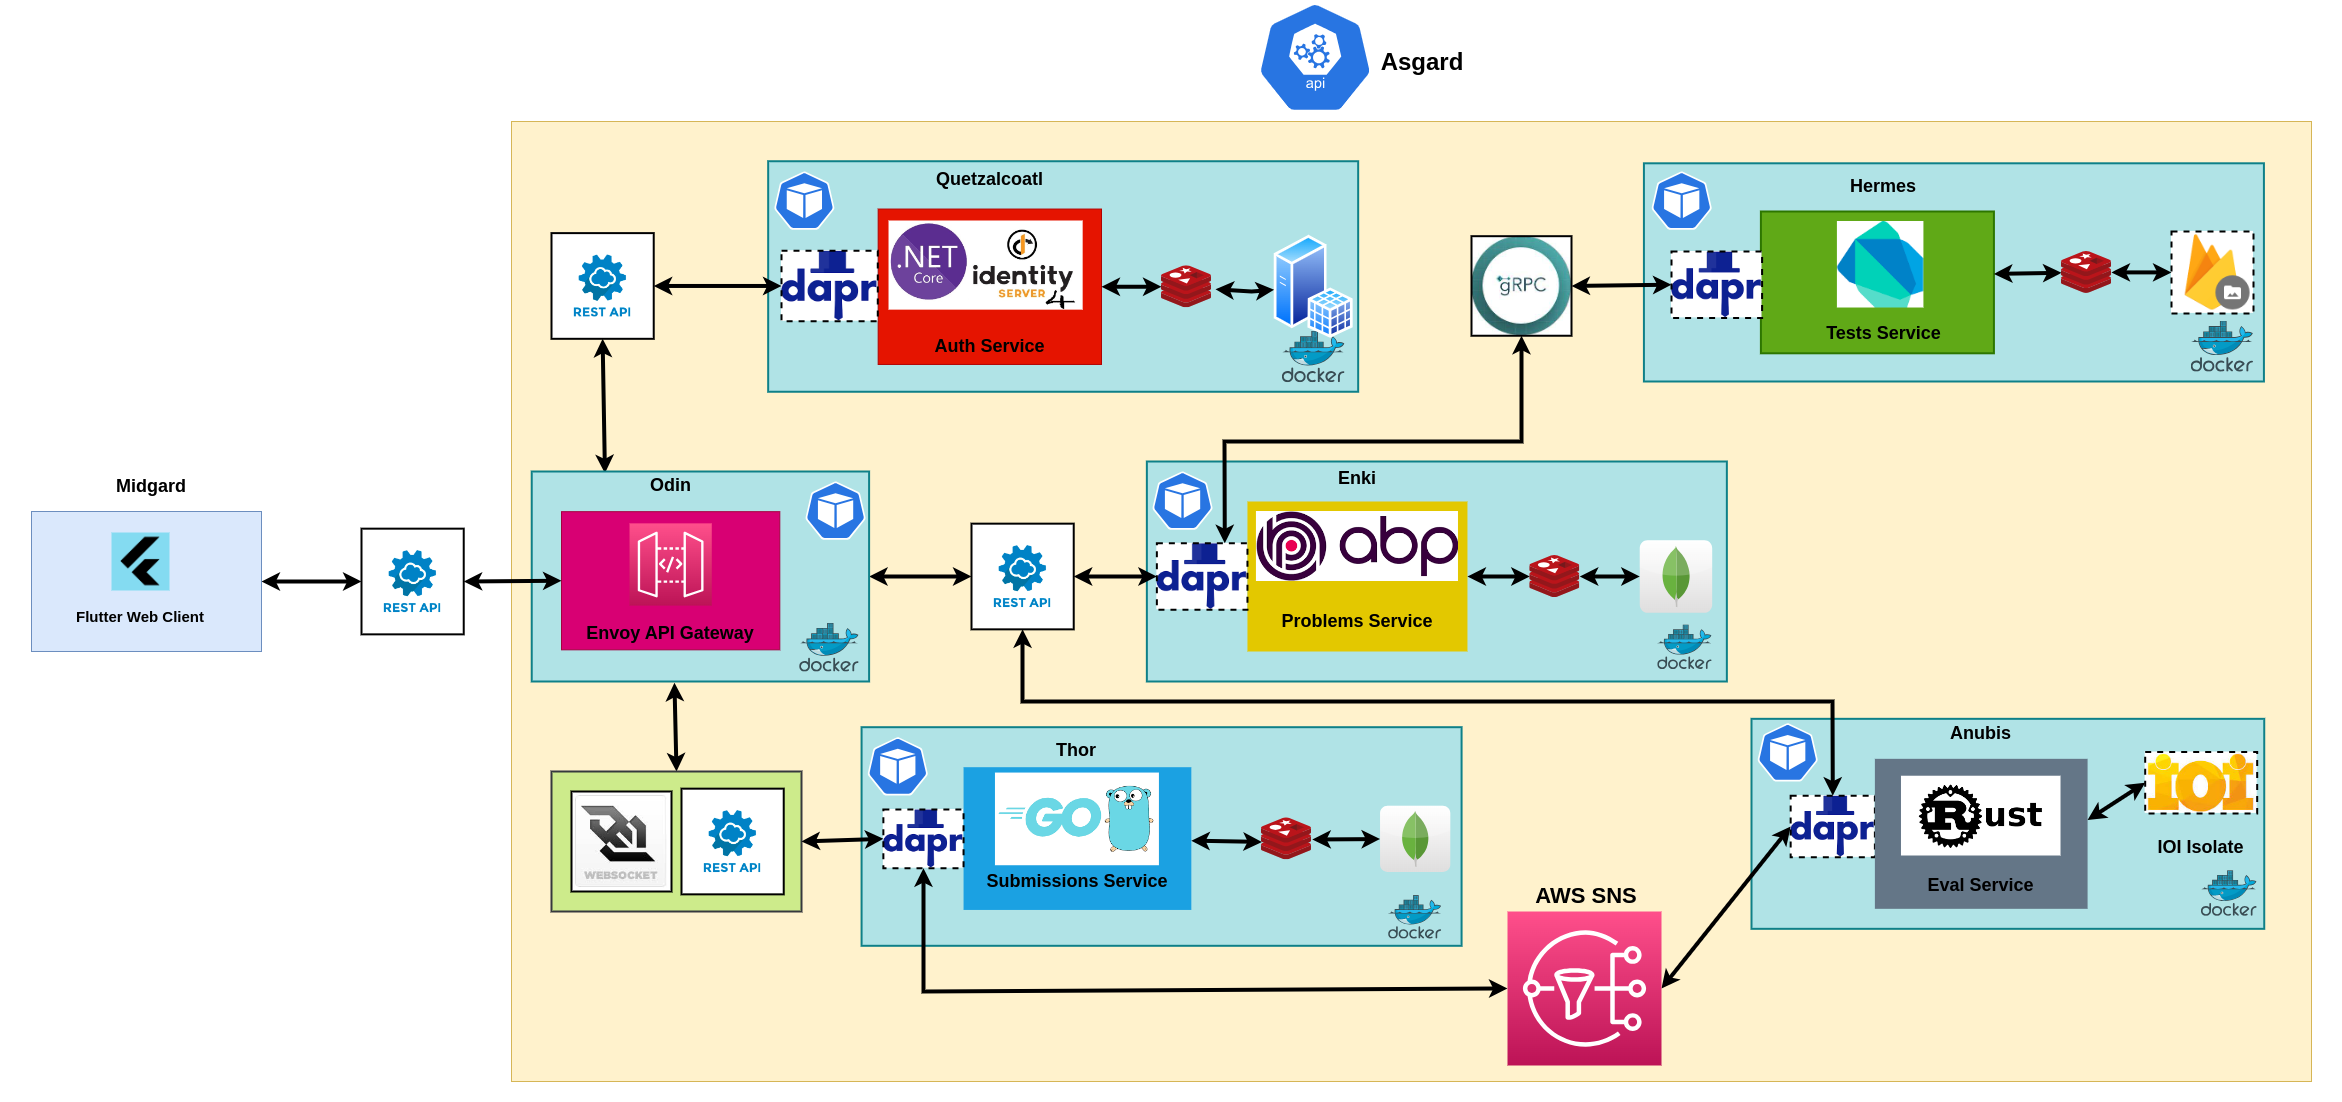
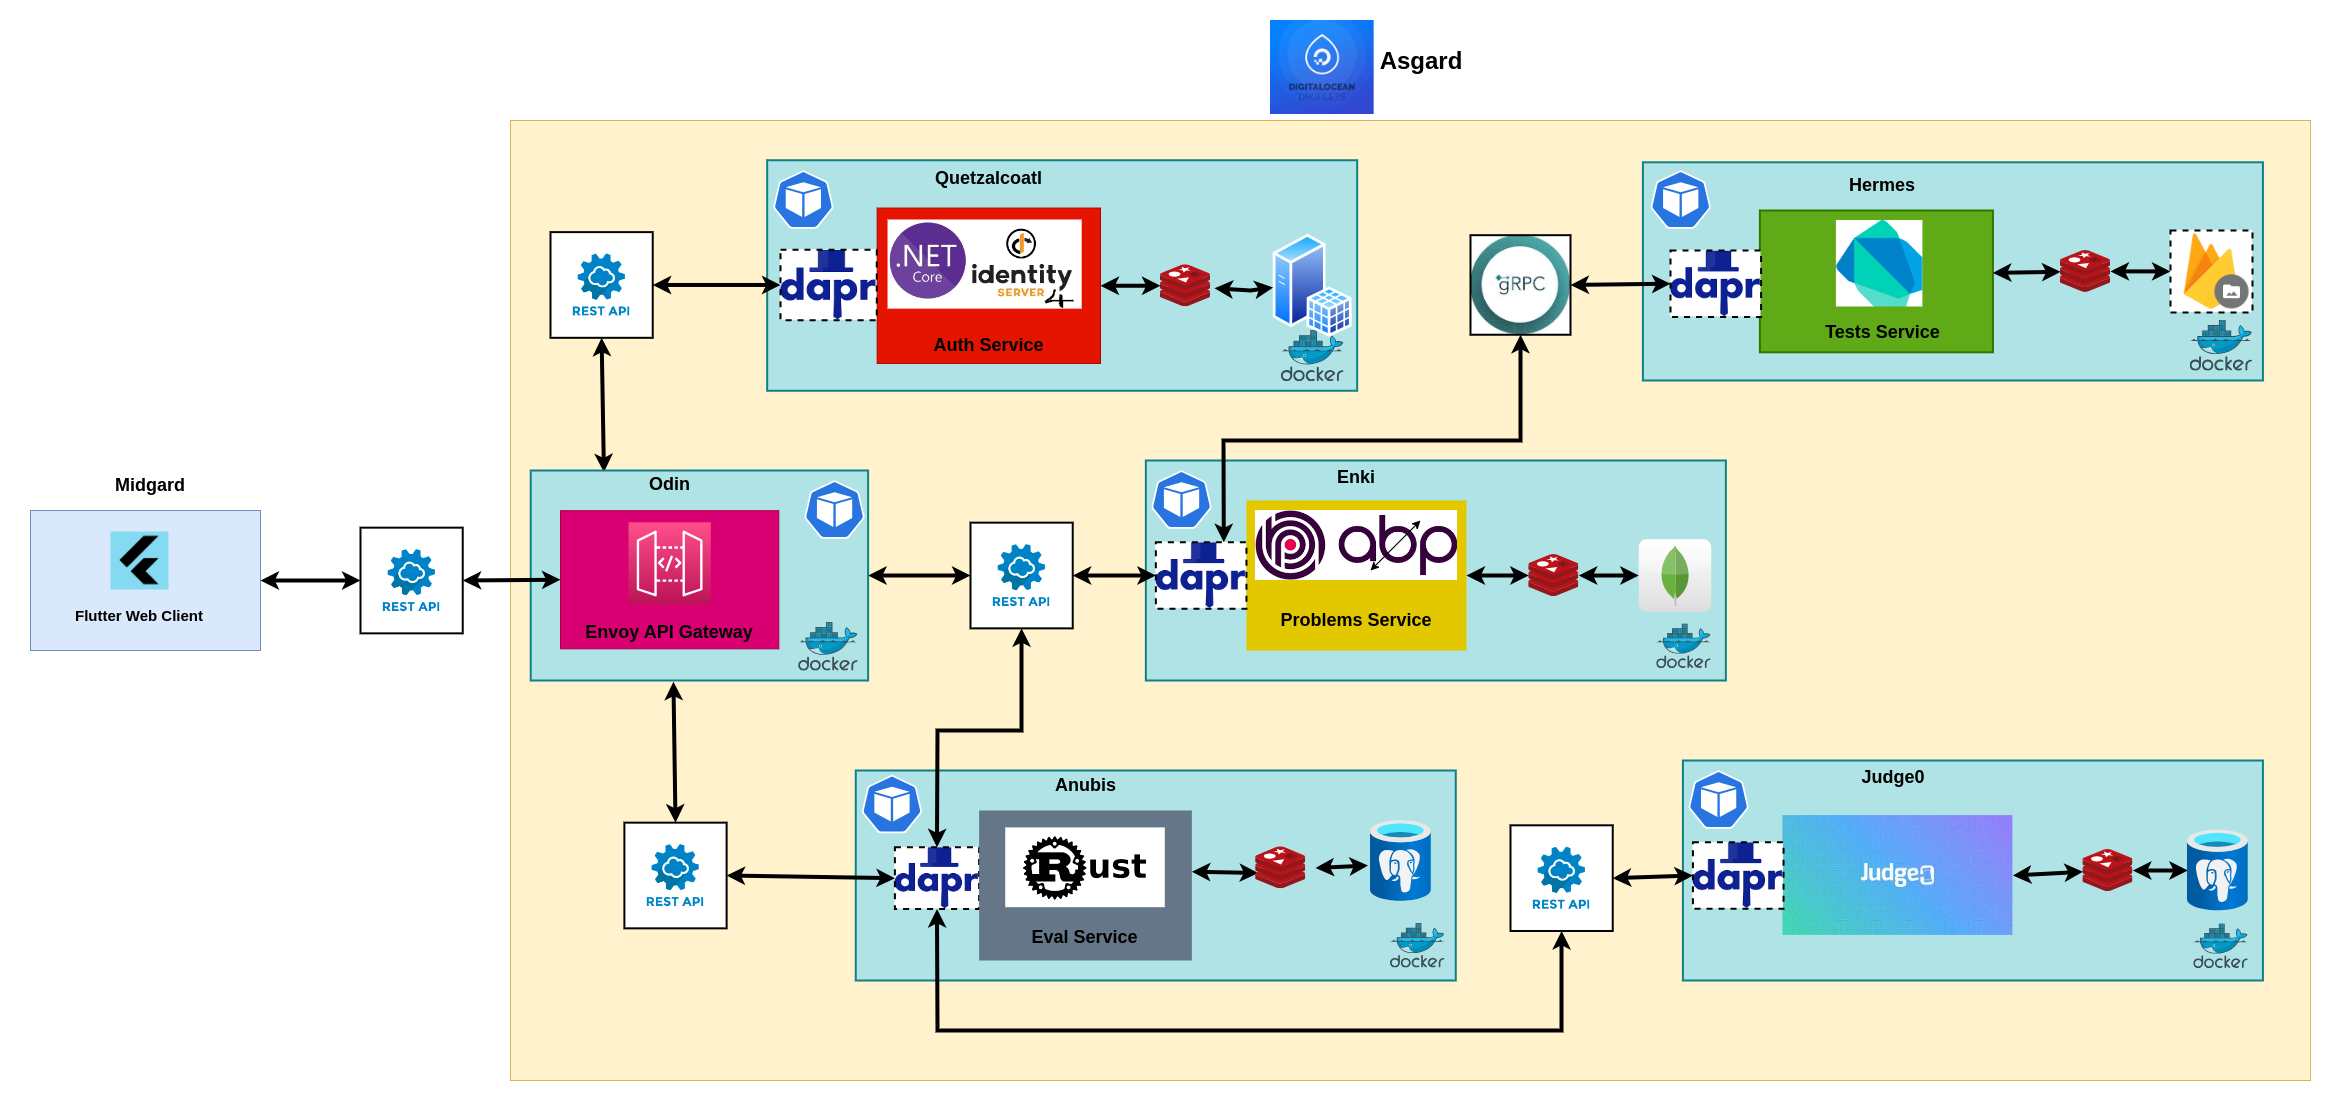
docs: update pantheonix arch diagram

diff --git a/README.md b/README.md
@@ -1,12 +1,17 @@
 # Asgard
+
 The **Pantheonix** backend is called **Asgard**, as the realm of gods from the northern mythology, and it consists in a cluster of microservices each performing a well-defined set of actions related to the domain context of such a programming educational platform:
+
 - **Quetzalcoatl**, as the feathered serpent Maya god of wisdom, is the identity microservice responsible to challenge each user's identity claim and authorize access to restricted resources
 - **Enki**, as the sumerian god of wisdom and handcrafting, is the problems microservice responsible to manage the access to the competitive programming problems archive
 - **Hermes**, as the greek god of travel, is the tests microservice responsible to allow swift access to each problem tests archive
 - **Anubis**, as the egyptian god which guides the souls to the underwold, is the submissions microservice responsible to guide the users submissions to their final judgement
 - **Odin**, as the almighty northern god of Asgard, is the API Gateway microservice responsible to guard the access to the rest of backend services
+
 ## Technologies
+
 **Pantheonix**:
+
 - Judge0 CE Evaluator
 - Docker
 - Dapr Runtime (Service Invocation, State Store)
@@ -17,6 +22,7 @@ The **Pantheonix** backend is called **Asgard**, as the realm of gods from the n
 - Github Actions
 
 **Quetzalcoatl**:
+
 - .NET 7
 - FastEndpoints
 - Identity Framework
@@ -25,26 +31,33 @@ The **Pantheonix** backend is called **Asgard**, as the realm of gods from the n
 - JWT Access Tokens and Refresh Tokens
 
 **Enki**:
+
 - .NET 7
 - ABP Framework
 - MongoDB
 
 **Hermes**:
+
 - Dart 2.19
 - gRPC
 
 **Anubis**:
+
 - Rust 1.71
 - Rocket
 - Diesel ORM
 - PostgreSQL
 
 **Odin**:
+
 - Envoy
+
 ## Functionalities
+
 ### Asgard MVP 1.0
 
 **Quetzalcoatl**:
+
 - [x] basic CRUD operations against user entities
 - [x] support for users to upload custom profile pictures
 - [x] login/register based on credentials (email, password)
@@ -52,49 +65,63 @@ The **Pantheonix** backend is called **Asgard**, as the realm of gods from the n
 - [x] access tokens renewal using refresh tokens
 
 **Enki**:
+
 - [x] basic CRUD operations against problem entities (excepting delete) with pagination, filtering and sorting add-ons
 - [x] basic CRUD operations against test entities which are delegated via a gRPC API to Hermes
 - [x] ability to publish a problem as a proposer to become visible for ordinary users
 - [x] ability to provide evaluation metadata for a specific problem to Anubis while judging a submission
 
 **Hermes**:
+
 - [x] basic CRUD operations against test archives
 - [x] while uploaded, tests are received as chunks of bytearrays composing a zip archive of input/output text files, defragmented locally on the server, unarchived and uploaded onward to Firebase Cloud Storage
 - [x] test input/output files can be directly downloaded from Firebase through URLs provided by a dedicated Hermes endpoint
 
 **Anubis**:
+
 - [x] create and read operations for submissions with pagination, filtering and sorting add-ons
 - [x] pending submissions are constantly retrieved from database, evaluated and updated against the db via a cron job
 - [x] support for C, C++, C#, Java, Python, JavaScript, Haskell, Lua, OCaml, Go, Rust
 
 **Odin**:
+
 - [x] HTTP rerouting
 - [x] use Envoy Lua filters to deny access from outside to internal endpoints and copy tokens from cookies to authorization header
+
 ### Asgard MVP 1.1
-***Quetzalcoatl***: 
+
+***Quetzalcoatl***:
+
 - [ ] add admin dashboard endpoints (set user roles)
 - [ ] add forgot email password using reset tokens from Identity Framework
 - [ ] add confirm email support
 - [ ] add OAuth2.0 support for Gmail and Github
 
-***Enki***: 
+***Enki***:
+
 - [ ] add problem labels
 - [ ] search problems by name
 - [ ] delete problem
 - [ ] add bundle of tests at once using a wrapping zip archive (add a metafile with tests scores)
 
-***Hermes***: 
+***Hermes***:
+
 - [ ] delete problem tests
 - [ ] add bundle of tests at once using a wrapping zip archive
 
-***Anubis***: 
+***Anubis***:
+
 - [ ] add standalone submissions
 - [ ] add statistics (submissions per language per problem, current submission time/memory performance among the other submissions with the same language)
+
 ## Architectures
+
+![Pantheonix Solution Architecture](assets/Pantheon-Architecture.png)
+
 From a macro-point of view, Asgard encompasses a few cloud design patterns which rule the overall system behavior and those are the Mesh Service, the API Gateway and the Sidecar patterns:
 
 1. **Mesh Service:**
-   
+
    - **Definition:** A mesh service, often associated with service mesh architecture, is a microservice that is part of a larger network of services (containerized in our case). Service mesh is designed to manage communication between microservices, handling tasks such as service discovery, load balancing, and security.
 
    - **Key Features:**
@@ -139,6 +166,3 @@ Domain-Driven Design (DDD) is a software development approach that focuses on un
 5. **Domain Events:** Capturing and representing significant changes or occurrences within the domain. Domain events help in maintaining consistency and can trigger further actions in the system.
 
 6. **Services:** Encapsulating domain logic that doesn't naturally fit into entities or value objects. Services help in keeping the domain layer clean and focused on core business logic.
-
-![](assets/Pantheon-Architecture.png)
-Pantheonix Solution Architecture
